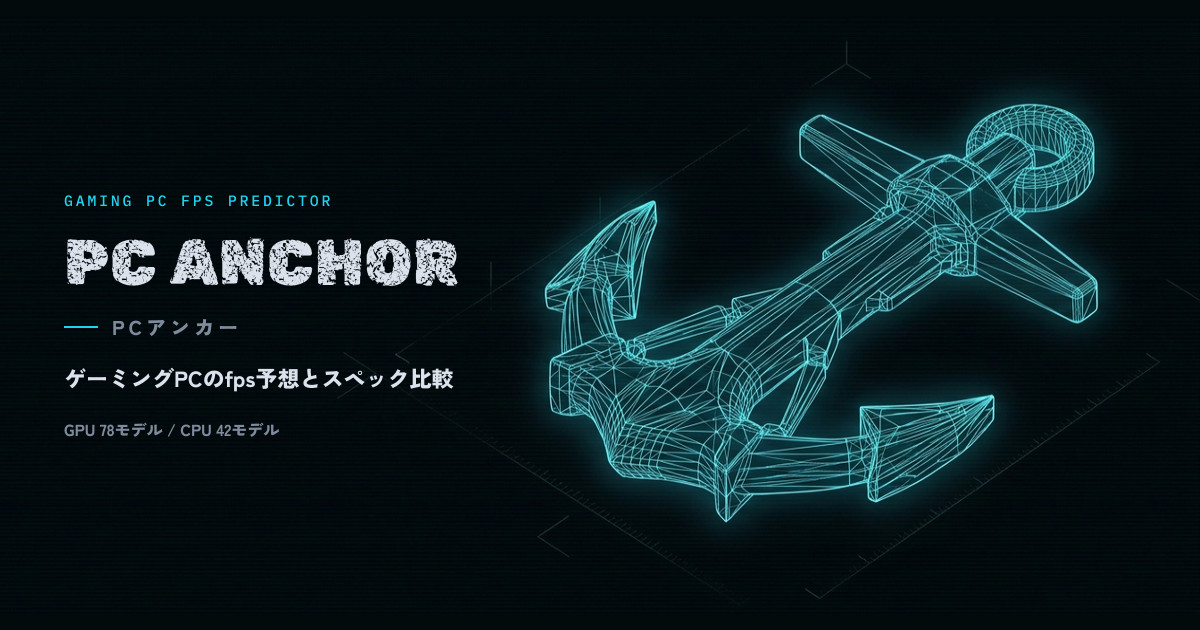
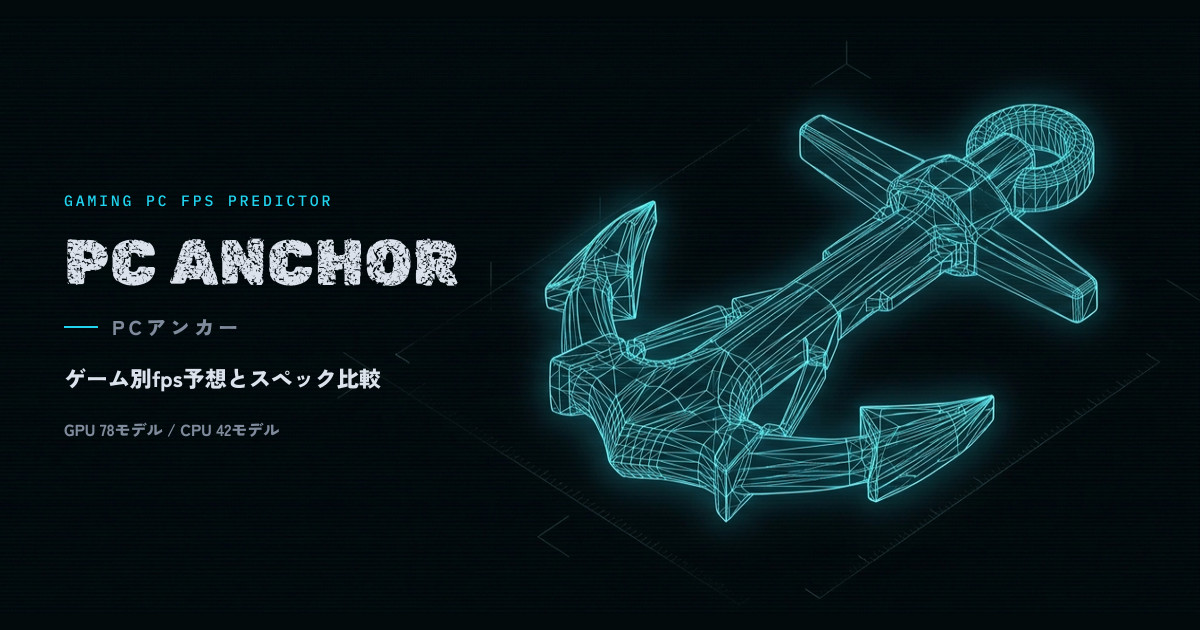
feat: ツールの名前を「ゲーム別fps予想・ボトルネック診断」に変える
ゲームを選んでから予想するツールなので、名前に「ゲーム別」を入れる。
ホームだけ変えるとカードを押した先が旧名のままで食い違うため、
画面の文字17か所と検索結果に出るタイトルまで揃えた。

まだ検索にインデックスされていないので、タイトルを変えるなら今が一番安全。

  正式名   ゲーム別fps予想・ボトルネック診断（見出し・カード・ぱんくず）
  短い形   ゲーム別fps予想（ヘッダーのナビ）
  文中     ゲーム別fps予想ツール

トップの title は「ゲーミングPC」も主要な検索語なので落とさず、
語順を変えて両方残した。

  旧  PCアンカー｜ゲーミングPCのfps予想とスペック比較
  新  PCアンカー｜ゲーム別fps予想とゲーミングPCスペック比較

OGP画像にもキャッチコピーが焼き込まれているので npm run og で作り直した。
英語のキッカー（GAMING PC FPS PREDICTOR / TOOL / FPS PREDICTOR）は
デザイン上の欧文大文字で揃えている部分なので触っていない。

Changed region(s): [[0.0925, 0.573, 0.4008, 0.6333]]

diff --git a/src/app/page.tsx b/src/app/page.tsx
@@ -4,7 +4,7 @@ import { tally } from '@/lib/data/summary';
 import { SITE } from '@/lib/site';
 
 export const metadata: Metadata = {
-  title: `${SITE.name}｜ゲーミングPCのfps予想とスペック比較`,
+  title: `${SITE.name}｜ゲーム別fps予想とゲーミングPCスペック比較`,
   description:
     'GPUとCPUを選ぶと、VALORANT・Fortnite で何fps出るかとボトルネックが分かります。GPU 78モデル・CPU 42モデルのスペックと性能指数も掲載。実測を基準にした推定値です。',
   alternates: { canonical: '/' },
@@ -13,7 +13,7 @@ export const metadata: Metadata = {
 const entries = [
   {
     href: '/tools/fps',
-    label: 'fps予想・ボトルネック診断',
+    label: 'ゲーム別fps予想・ボトルネック診断',
     count: 'ツール',
     note: 'GPUとCPUを選ぶだけ。どちらが足を引っ張っているかまで分かります',
   },
@@ -63,7 +63,7 @@ export default function Home() {
           </span>
         </h1>
         <p className="mt-6 max-w-[60ch] text-dim">
-          ゲーミングPCのfps予想ツールと、GPU/CPUスペックデータベース。
+          ゲーミングPCのゲーム別fps予想ツールと、GPU/CPUスペックデータベース。
           モデル別の性能はメーカー公式スペックから自前で計算。ゲーム別の係数は
           自前の実測と、許諾を得た第三者の測定から算出しています（出典を明記）。
           他社のfps数値表の転載はしていません。

diff --git a/src/app/tools/fps/page.tsx b/src/app/tools/fps/page.tsx
@@ -9,7 +9,7 @@ import { assertModelReproducesMeasurements } from '@/lib/fps/selftest';
 assertModelReproducesMeasurements();
 
 export const metadata: Metadata = {
-  title: 'fps予想とボトルネック診断｜GPUとCPUを選ぶだけ',
+  title: 'ゲーム別fps予想とボトルネック診断｜GPUとCPUを選ぶだけ',
   description:
     'GPUとCPUを選ぶと、VALORANT・Fortnite の推定fpsが出ます。GPU律速かCPU律速か、どこを変えればfpsが伸びるかまで診断。メーカー公式スペックと実測から計算した推定値です（誤差±15〜20%）。',
   alternates: { canonical: '/tools/fps' },
@@ -22,7 +22,7 @@ export default function FpsToolPage() {
         <Breadcrumbs
           trail={[
             { href: '/tools', label: 'ツール' },
-            { href: '/tools/fps', label: 'fps予想・ボトルネック診断' },
+            { href: '/tools/fps', label: 'ゲーム別fps予想・ボトルネック診断' },
           ]}
         />
         <header className="border-b border-ink pt-12 pb-7">
@@ -30,7 +30,7 @@ export default function FpsToolPage() {
             TOOL / FPS PREDICTOR
           </p>
           <h1 className="mb-4 font-cond text-[clamp(2rem,6vw,3.4rem)] leading-none font-bold tracking-tight">
-            fps予想・ボトルネック診断
+            ゲーム別fps予想・ボトルネック診断
           </h1>
           <p className="max-w-[60ch] text-dim">
             GPUとCPUを選ぶと、推定fpsと

diff --git a/src/app/games/[slug]/page.tsx b/src/app/games/[slug]/page.tsx
@@ -156,7 +156,7 @@ export default async function GameDetailPage({ params }: PageProps<'/games/[slug
             {BASE_RESOLUTION} / {featured.label} を基準にした推定値です。
             他の解像度や画質、CPUを変えた場合は
             <Link href="/tools/fps" className="text-accent underline">
-              fps予想ツール
+              ゲーム別fps予想ツール
             </Link>
             で確認できます。
           </p>
@@ -231,7 +231,7 @@ export default async function GameDetailPage({ params }: PageProps<'/games/[slug
                 {Math.round(featured.lowRatio.max * 100)}% でした。
                 構成ごとの値は
                 <Link href="/tools/fps" className="text-accent underline">
-                  fps予想ツール
+                  ゲーム別fps予想ツール
                 </Link>
                 で出せます。
               </li>
@@ -249,7 +249,7 @@ export default async function GameDetailPage({ params }: PageProps<'/games/[slug
             <p className="text-sm text-dim">
               自分の構成で調べるなら
               <Link href="/tools/fps" className="text-accent underline">
-                fps予想・ボトルネック診断
+                ゲーム別fps予想・ボトルネック診断
               </Link>
               が便利です。GPUとCPUを選ぶだけで、どちらが足を引っ張っているかまで出ます。
             </p>

diff --git a/src/app/layout.tsx b/src/app/layout.tsx
@@ -80,7 +80,7 @@ const fontVars = [
 export const metadata: Metadata = {
   metadataBase: new URL(SITE.url),
   title: {
-    default: `${SITE.name}｜ゲーミングPCのfps予想とスペック比較`,
+    default: `${SITE.name}｜ゲーム別fps予想とゲーミングPCスペック比較`,
     template: `%s｜${SITE.name}`,
   },
   description: SITE.description,
@@ -88,7 +88,7 @@ export const metadata: Metadata = {
     type: 'website',
     locale: 'ja_JP',
     siteName: SITE.name,
-    title: `${SITE.name}｜ゲーミングPCのfps予想とスペック比較`,
+    title: `${SITE.name}｜ゲーム別fps予想とゲーミングPCスペック比較`,
     description: SITE.description,
   },
   twitter: {
@@ -103,7 +103,7 @@ export const metadata: Metadata = {
 };
 
 const nav = [
-  { href: '/tools/fps', label: 'fps予想' },
+  { href: '/tools/fps', label: 'ゲーム別fps予想' },
   { href: '/gpu', label: 'GPU' },
   { href: '/cpu', label: 'CPU' },
   { href: '/games', label: 'ゲーム別' },

diff --git a/src/app/tools/page.tsx b/src/app/tools/page.tsx
@@ -5,14 +5,14 @@ import { Breadcrumbs } from '@/components/Breadcrumbs';
 export const metadata: Metadata = {
   title: 'ゲーミングPC向けツール一覧',
   description:
-    'ゲーミングPC向けのツール。fps予想とボトルネック診断、GPU/CPUスペックデータベース。',
+    'ゲーミングPC向けのツール。ゲーム別のfps予想とボトルネック診断、GPU/CPUスペックデータベース。',
   alternates: { canonical: '/tools' },
 };
 
 const tools = [
   {
     href: '/tools/fps',
-    label: 'fps予想・ボトルネック診断',
+    label: 'ゲーム別fps予想・ボトルネック診断',
     note: 'GPUとCPUを選ぶと推定fpsと、どちらが足を引っ張っているかが出ます',
     status: '公開中',
   },

diff --git a/src/app/cpu/[slug]/page.tsx b/src/app/cpu/[slug]/page.tsx
@@ -179,7 +179,7 @@ export default async function CpuDetailPage({ params }: PageProps<'/cpu/[slug]'>
           <p className="text-sm text-dim">
             他のGPUと組み合わせた場合や、ボトルネックがどちらにあるかは
             <Link href="/tools/fps" className="text-accent underline">
-              fps予想・ボトルネック診断
+              ゲーム別fps予想・ボトルネック診断
             </Link>
             で確認できます。他のモデルとの比較は
             <Link href="/cpu" className="text-accent underline">

diff --git a/src/app/gpu/[slug]/page.tsx b/src/app/gpu/[slug]/page.tsx
@@ -165,7 +165,7 @@ export default async function GpuDetailPage({ params }: PageProps<'/gpu/[slug]'>
           <p className="text-sm text-dim">
             他のCPUと組み合わせた場合や、ボトルネックがどちらにあるかは
             <Link href="/tools/fps" className="text-accent underline">
-              fps予想・ボトルネック診断
+              ゲーム別fps予想・ボトルネック診断
             </Link>
             で確認できます。他のモデルとの比較は
             <Link href="/gpu" className="text-accent underline">

diff --git a/src/app/about/page.tsx b/src/app/about/page.tsx
@@ -112,7 +112,7 @@ Board    MSI B650 GAMING PLUS WIFI
             ばらつきをそのままレンジで表示しています。
             算出方法は
             <Link href="/tools/fps" className="text-accent underline">
-              fps予想ツール
+              ゲーム別fps予想ツール
             </Link>
             のページに掲載しています。
           </p>
